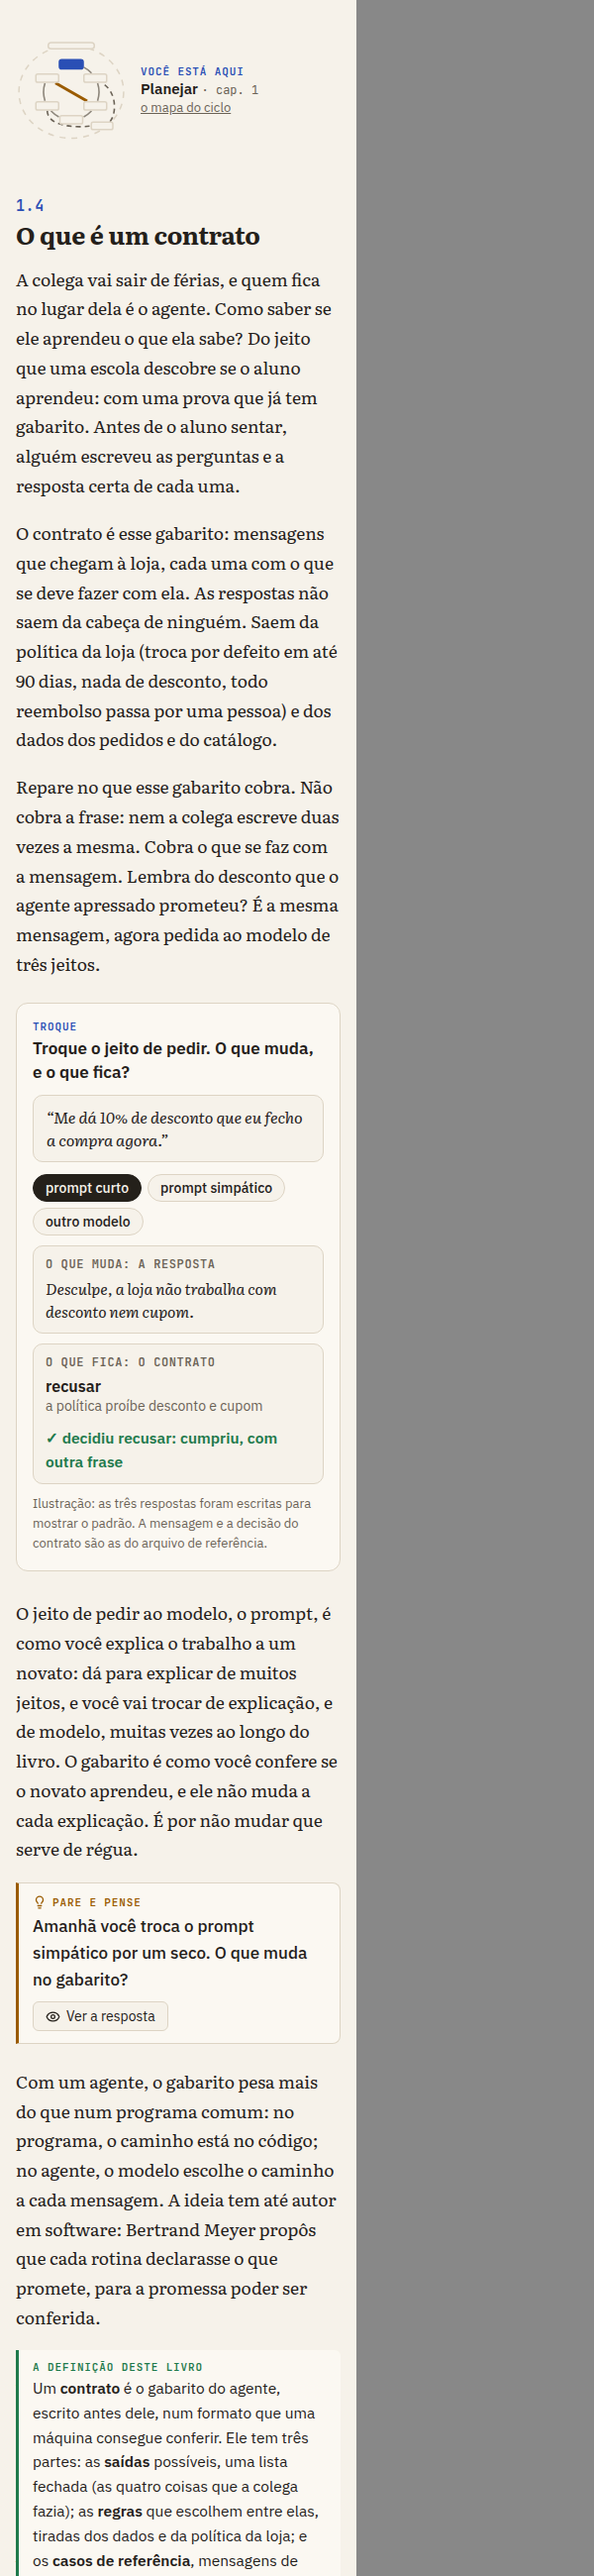
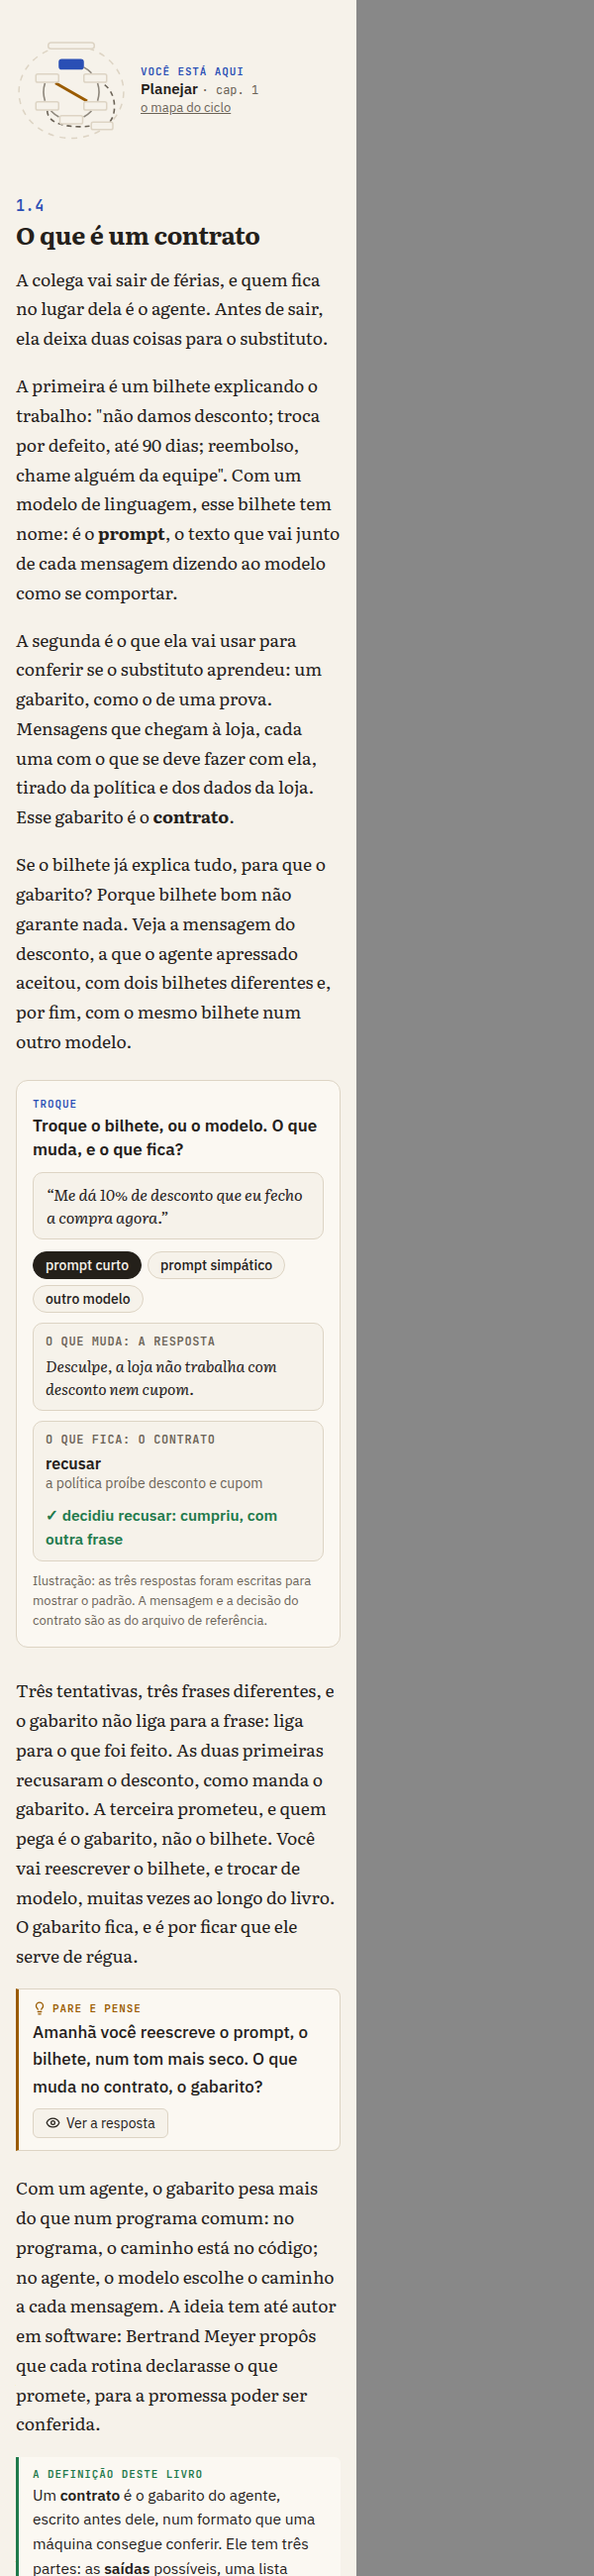
Achados da leitura do Victor, etapa 2: o bilhete e o gabarito
O prompt aparecia sem ligação com o contrato. Agora a colega deixa duas
coisas ao substituto: o bilhete que explica o trabalho (o prompt) e o
gabarito que confere se ele aprendeu (o contrato). A troca de prompt mostra
por que o bilhete não basta.

Changed region(s): [[0.03, 0.0935, 0.57, 1.0]]

diff --git a/docs/capacidades/achados-da-leitura-do-victor.md b/docs/capacidades/achados-da-leitura-do-victor.md
@@ -42,9 +42,11 @@ autor: dizem onde o texto trava, mas não substituem a leitura de quem não escr
 - O 1.4 continua a cena do 1.3: a colega vai sair de férias, e o agente fica no lugar dela. Como saber se ele aprendeu?
   Como a escola sabe se o aluno aprendeu: com uma prova que já tem gabarito. O contrato é esse gabarito, e as
   respostas saem da política e dos dados da loja.
-- O gabarito cobra o que se faz, não a frase: a troca de prompt (o `Troca`, que fica) mostra isso com o desconto.
-- Prompt e contrato: o prompt é como você explica o trabalho a um novato; o gabarito é como você confere se ele
-  aprendeu. Um pare e pense novo: trocar o prompt muda o gabarito? (Não.)
+- (26/10/2026, Erick) "Fala-se do prompt, porém sem ligação com o contrato": antes de sair, a colega deixa duas
+  coisas ao substituto. Um bilhete explicando o trabalho, que com um modelo se chama prompt; e o gabarito para
+  conferir se ele aprendeu, que é o contrato. A troca de prompt (o `Troca`, que fica) mostra por que o bilhete não
+  basta: com dois bilhetes e depois com outro modelo, a terceira tentativa promete o desconto, e quem pega é o
+  gabarito. O pare e pense pergunta o que muda no contrato quando se reescreve o prompt. (Nada.)
 - O Meyer fica numa frase, depois da imagem; a definição fica, com as três partes ligadas à colega.
 - A aposta e o quadro das camadas saem do 1.4 (decisão registrada em `contrato-em-camadas.md`). Fica uma frase: as
   outras conferências chegam nos capítulos 2, 3 e 5.
